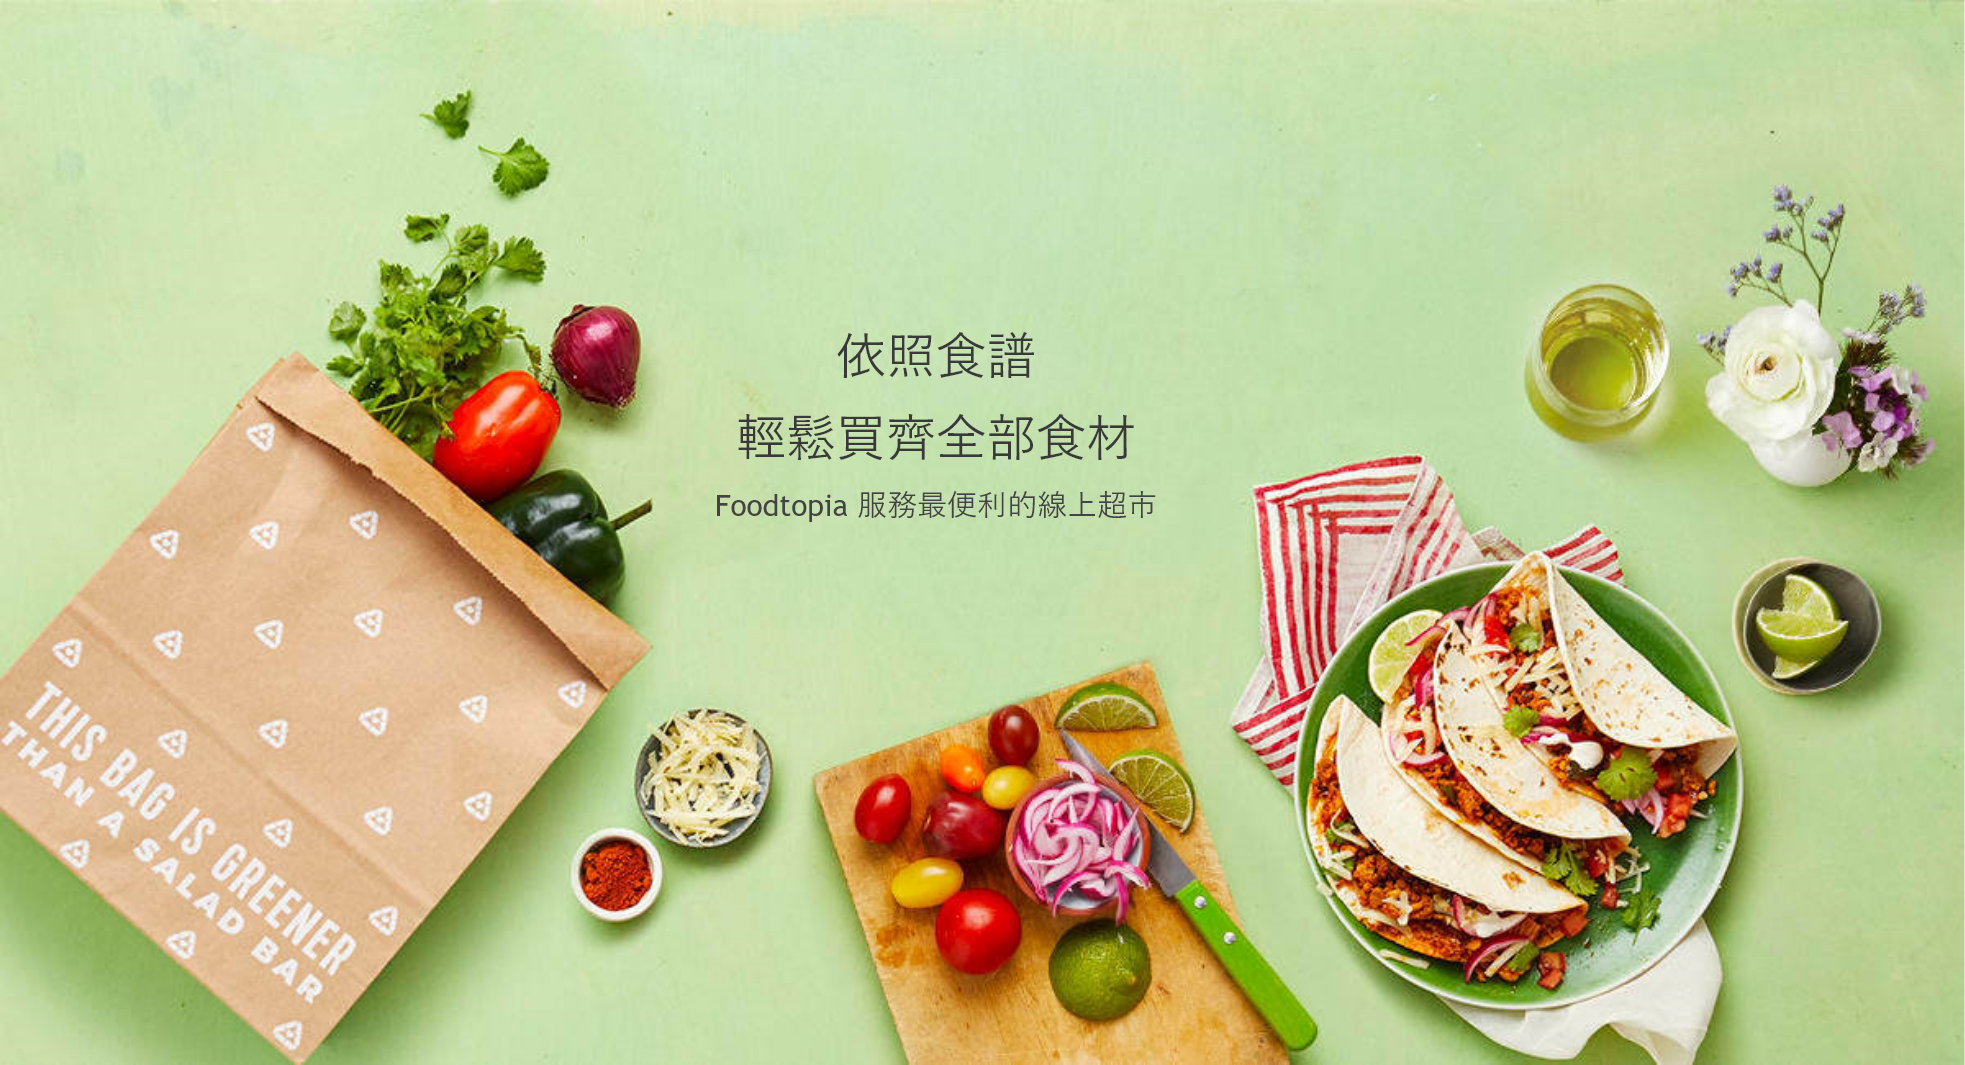
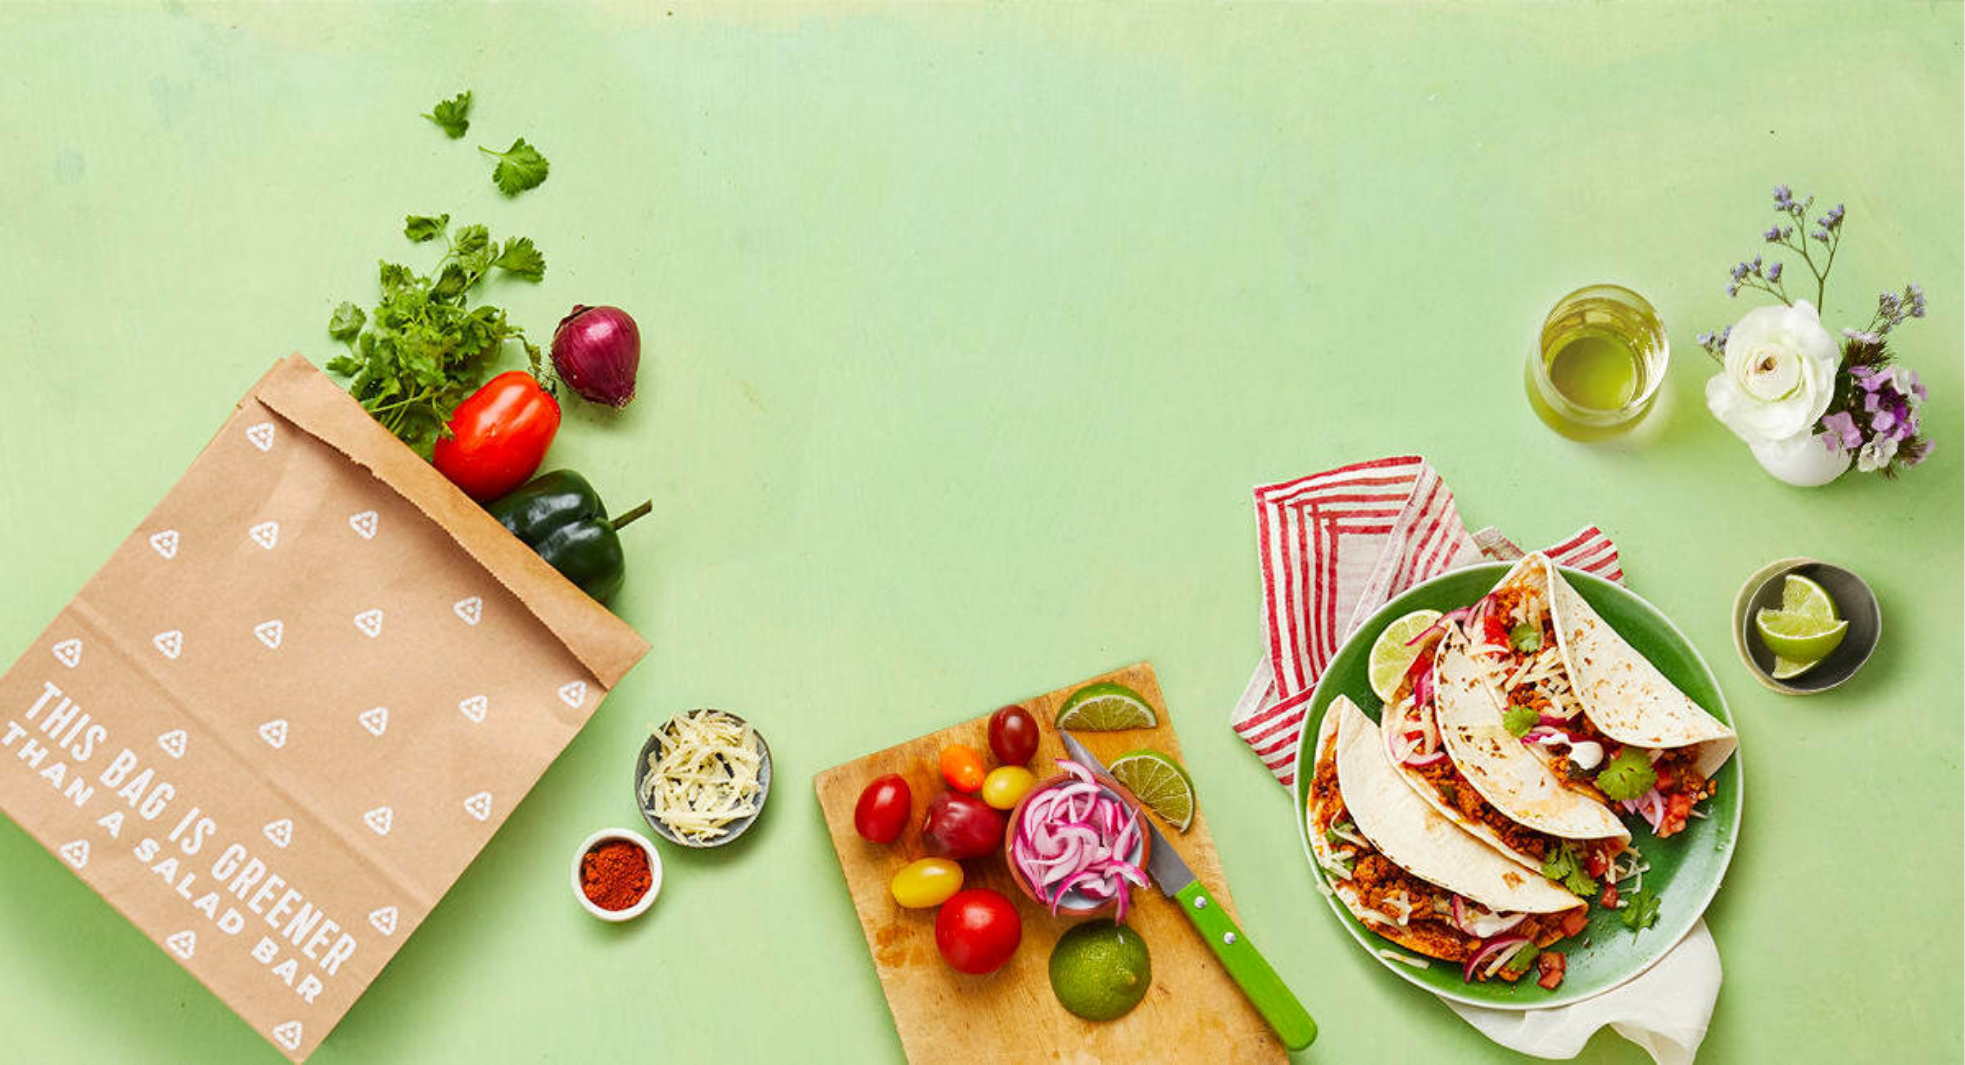
homepage css animation

Changed region(s): [[0.3725, 0.3099, 0.5898, 0.4338], [0.3725, 0.4648, 0.5898, 0.4958]]

diff --git a/src/components/homePage/HomePage.js b/src/components/homePage/HomePage.js
@@ -1,7 +1,7 @@
 import React, { Component } from 'react';
 import './HomePage.scss';
 import { Link } from 'react-router-dom';
-import $ from 'jquery'; 
+import $ from 'jquery';
 
 class HomePage extends Component {
     constructor(prop) {
@@ -9,33 +9,73 @@ class HomePage extends Component {
     }
     componentDidMount() {
         window.scrollTo(0, 0);
+        setTimeout(function () {
+            $('.i1').css('opacity', '1').css('transform', 'translateY(0)');
+        }, 300)
+        setTimeout(function () {
+            $('.i2').css('opacity', '1').css('transform', 'translateY(0)');
+        }, 600)
+        setTimeout(function () {
+            $('.i3').css('opacity', '1').css('transform', 'translateY(0)');
+        }, 900)
+        $(window).scroll(function () {
+            let scrollNow = $(this).scrollTop();
+            console.log(scrollNow);
+            let scrollHeight = $(window).height();
+            console.log(scrollHeight);
+            if (scrollNow >= scrollHeight / 2) {
+                // $('.mainWrap').css('top', scrollHeight + 'px').css('opacity','1')
+                $('.secondWrap').css('opacity', '1').css('transform', 'translateX(0)');
+            }
+            if (scrollNow >= scrollHeight) {
+                // $('.mainWrap').css('top', scrollHeight + 'px').css('opacity','1')
+                $('.mainWrap').css('opacity', '1').css('transform', 'translateX(0)')
+            }
+            if (scrollNow >= scrollHeight * 1.5) {
+                // $('.mainWrap').css('top', scrollHeight + 'px').css('opacity','1')
+                $('.thirdWrap').css('opacity', '1').css('transform', 'translateX(0)')
+            }
+            //關於立方掉落動畫開始
+            // var x = $('.distance').offset().top
+            // console.log(scrollNow)
+            // if (scrollNow > x / 2 ) {
+            //     console.log(x)
+            //     $('.wrapper').css('transform', 'translateY(0)')
+            // }
+            //關於立方掉落動畫結束
+        })
     }
     smoothscroll() {
-            $("html, body").animate({ scrollTop: 0 }, "slow");
+        $("html, body").animate({ scrollTop: 0 }, "slow");
     }
     render() {
         return (
             <React.Fragment>
                 <header>
+                    <div className='foodTitle'>
+                        <h2 className='rubberBand'>依照食譜</h2>
+                        <h2 className='rubberBand2'>輕鬆買齊所有食材</h2>
+                        <h3 className='rubberBand3'>Foodtopia 服務最便利的線上超市</h3>
+                    </div>
                     <div className='firstMenu d-flex justify-content-center'>
-                        <img src={require('./images/Group125.png')} />
-                        <img className='mx-5' src={require('./images/Group127.png')} />
-                        <img src={require('./images/Group777.png')} />
+                        <img className='i i1' src={require('./images/Group125.png')} />
+                        <img className='mx-5 i i2' src={require('./images/Group127.png')} />
+                        <img className='i i3' src={require('./images/Group777.png')} />
                     </div>
                 </header>
-                <div className='home'>
+                <div className='home '>
                     <div>
                         <h3 className='text-center py-5'>一鍵採買食材</h3>
                     </div>
-                    <div className='secondMenu d-flex justify-content-center py-4'>
+                    <div className='secondMenu d-flex justify-content-center py-4 secondWrap'>
                         <img className='mx-5' src={require('./images/Group72.png')} />
                         <img className='mx-5' src={require('./images/Group70.png')} />
                         <img className='mx-5' src={require('./images/Group71.png')} />
                     </div>
-                    <div className='my-5 py-4 text-center'>
+                    <div className='my-5 py-4 text-center mainWrap'>
                         <img className='mx-5' style={{ width: '1000px' }} src={require('./images/Web111.png')} />
                     </div>
-                    <div className='sFotter d-flex justify-content-center align-items-center'>
+                    <div className='sFotter d-flex justify-content-center align-items-center thirdWrap'>
                         <div className='smallBox1 '>
                             <div className='text-center pt-4 pb-3'>最齊全的食譜種類<br />最便捷的食材採買服務</div>
                             <div className='text-center'>
@@ -45,7 +85,7 @@ class HomePage extends Component {
                     </div>
                 </div>
                 <div className='toTop' onClick={this.smoothscroll}>
-                    <img src={require('./images/toTop.png')}/>
+                    <img src={require('./images/toTop.png')} />
                 </div>
             </React.Fragment>
         )

diff --git a/src/components/footer/Footer.js b/src/components/footer/Footer.js
@@ -1,73 +1,69 @@
-import React, { Component } from 'react';
+import React, {Component} from 'react';
 import './Footer.scss';
-import { Link } from 'react-router-dom';
+import {Link} from 'react-router-dom';
 
 class Footer extends Component {
-    constructor(prop) {
-        super(prop)
-    }
-    render() {
-        return (
-            <React.Fragment>
-                <footer>
-                    <div className='container d-flex justify-content-between py-5'>
-                        <div className='d-flex'>
-                            <div className='pr-4'>
-                                <ul>
-                                    <li>首頁</li>
-                                    <li>生鮮食材</li>
-                                    <li>美味食譜</li>
-                                    <li>關於我們</li>
-                                    <li>會員中心</li>
-                                    <li>購物清單</li>
-                                </ul>
-                            </div>
-                            <div className='pr-4'>
-                                <ul>
-                                    <li>首頁</li>
-                                    <li>生鮮食材</li>
-                                    <li>美味食譜</li>
-                                    <li>關於我們</li>
-                                    <li>會員中心</li>
-                                    <li>購物清單</li>
-                                </ul>
-                            </div>
-                            <div>
-                                <ul>
-                                    <li>首頁</li>
-                                    <li>生鮮食材</li>
-                                    <li>美味食譜</li>
-                                    <li>關於我們</li>
-                                    <li>會員中心</li>
-                                    <li>購物清單</li>
-                                </ul>
-                            </div>
+  constructor(prop) {
+    super(prop)
+  }
+  render() {
+    return (
+      <React.Fragment>
+        <footer>
+          <div className='container d-flex justify-content-between py-5'>
+            <div className='d-flex'>
+              <div className='pr-4'>
+                <ul>
+                  <li>首頁</li>
+                  <li>生鮮食材</li>
+                  <li>美味食譜</li>
+                  <li>關於我們</li>
+                  <li>會員中心</li>
+                </ul>
+              </div>
+              <div className='pr-4'>
+                <ul>
+                  <li>會員中心</li>
+                  <li>基本資料</li>
+                  <li>訂閱通知</li>
+                  <li>我的訂單</li>
+                  <li>客服系統</li>
+                </ul>
+              </div>
+              <div>
+                <ul>
+                  <li>購物車</li>
+                  <li>購物清單</li>
+                  <li>客服系統</li>
+                  <li>部落格</li>
+                </ul>
+              </div>
 
-                        </div>
-                        <div className='d-flex'>
-                            <div className='pr-5 flex-1'>
-                                社群
-                        </div>
-                            <div className='pl-5 flex-1'>
-                                <div>
-                                    語言<br/>
-                            <select>
-                                        <option>繁體中文</option>
-                                    </select>
-                                </div>
-                                <div>
-                                購物所在地<br/>
-                            <select>
-                                    <option>台灣</option>
-                                </select>
-                                </div>
-                            </div>
-                        </div>
-                    </div>
-                </footer>
-            </React.Fragment>
-        )
-    }
+            </div>
+            <div className='d-flex social'>
+              <div className='pr-1 flex-1'>
+                <img className='ss' src={require('./images/i13.png')}/>
+              </div>
+              <div className='pl-5 flex-1'>
+                <div>
+                  語言<br/>
+                  <select>
+                    <option>繁體中文</option>
+                  </select>
+                </div>
+                <div>
+                  購物所在地<br/>
+                  <select>
+                    <option>台灣</option>
+                  </select>
+                </div>
+              </div>
+            </div>
+          </div>
+        </footer>
+      </React.Fragment>
+    )
+  }
 }
 
 export default Footer;

diff --git a/src/components/homePage/HomePage.scss b/src/components/homePage/HomePage.scss
@@ -1,6 +1,25 @@
 $mainColor : #FF4343;
 $secondColor : #707070;
-
+.mainWrap {
+    opacity: 0;
+    transition: 1s;
+    transform: translateX(-200px);
+}
+.secondWrap {
+    opacity: 0;
+    transition: 1s;
+    transform: translateX(200px);
+}
+.thirdWrap {
+    opacity: 0;
+    transition: 3s;
+    transform: translateY(0px);
+}
+.i {
+    opacity: 0;
+    transition: 1s;
+    transform: translateY(-200px);
+}
 .toTop {
     width: 50px;
     height: 50px;
@@ -17,6 +36,15 @@ $secondColor : #707070;
     }
 }
 header {
+    .foodTitle{
+        width: 600px;
+        text-align: center;
+        font-family: '微軟正黑體';
+        position: absolute;
+        color: #393939;
+        left: 30%;
+        top:30%;
+    }
     height: 100vh;
     background: url('images/Group178.png') no-repeat center;
     background-size: cover;
@@ -51,3 +79,52 @@ header {
         }
     }
 }
+@keyframes rubberBand {
+    from {
+      -webkit-transform: scale3d(1, 1, 1);
+      transform: scale3d(1, 1, 1);
+    }
+  
+    30% {
+      -webkit-transform: scale3d(1.25, 0.75, 1);
+      transform: scale3d(1.25, 0.75, 1);
+    }
+  
+    40% {
+      -webkit-transform: scale3d(0.75, 1.25, 1);
+      transform: scale3d(0.75, 1.25, 1);
+    }
+  
+    50% {
+      -webkit-transform: scale3d(1.15, 0.85, 1);
+      transform: scale3d(1.15, 0.85, 1);
+    }
+  
+    65% {
+      -webkit-transform: scale3d(0.95, 1.05, 1);
+      transform: scale3d(0.95, 1.05, 1);
+    }
+  
+    75% {
+      -webkit-transform: scale3d(1.05, 0.95, 1);
+      transform: scale3d(1.05, 0.95, 1);
+    }
+  
+    to {
+      -webkit-transform: scale3d(1, 1, 1);
+      transform: scale3d(1, 1, 1);
+    }
+  }
+  
+  .rubberBand {
+    animation: 1s rubberBand;
+    animation-delay:1.2s;
+  }
+  .rubberBand2 {
+    animation: 1s rubberBand;
+    animation-delay:1.5s;
+  }
+  .rubberBand3 {
+    animation: 1s rubberBand;
+    animation-delay:1.8s;
+  }

diff --git a/src/components/footer/Footer.scss b/src/components/footer/Footer.scss
@@ -13,4 +13,16 @@ footer {
             list-style-type: none;
         }
     }
+    .social {
+        width: 500px;
+        user-select: none;
+        div {
+            .ss {
+                object-fit: contain;
+                user-select: none;
+                width: 100%;
+                height: 100%;
+            }
+        }
+    }
 }
